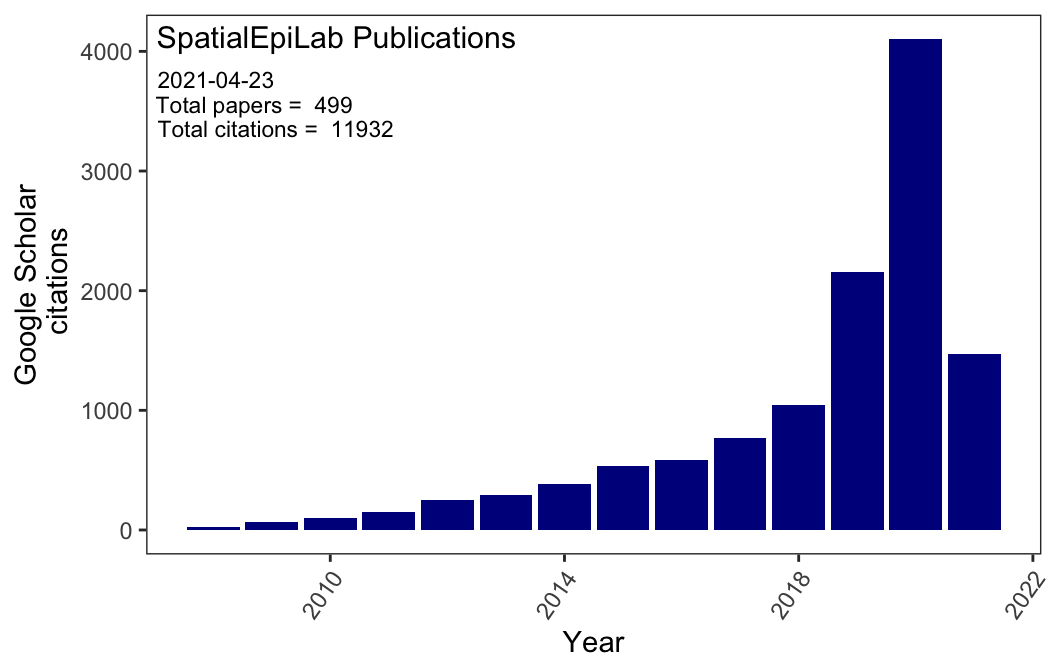
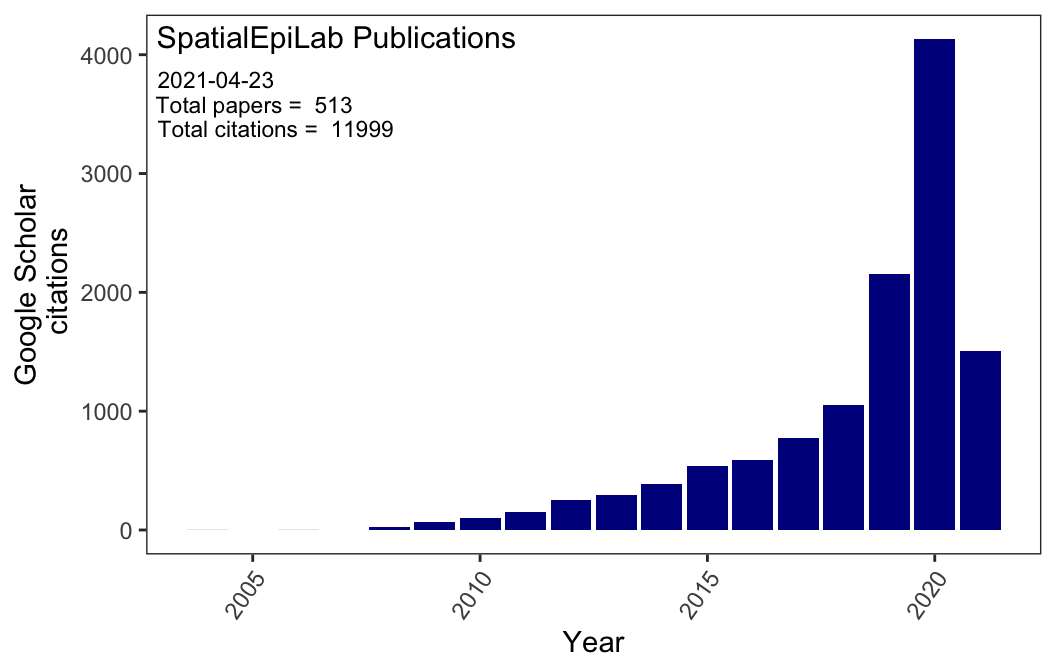
update index

diff --git a/index.html b/index.html
@@ -11,7 +11,7 @@
 
 
 
-<title>UQ Spatial Epidemiology Lab</title>
+<title>index.utf8</title>
 
 <script src="site_libs/jquery-1.11.3/jquery.min.js"></script>
 <meta name="viewport" content="width=device-width, initial-scale=1" />
@@ -331,7 +331,6 @@ $(document).ready(function () {
 
 
 
-<h1 class="title toc-ignore">UQ Spatial Epidemiology Lab</h1>
 
 </div>
 
@@ -340,7 +339,7 @@ $(document).ready(function () {
 <p><img src="images/spatial_website_logo.png" style="width:90%; margin-bottom: 1px" align="top" alt="The Spatial Epidemiology Lab (SpatialEpi) is a medical geography and disease ecology research group based at the University of Queensland"></p>
 <div class="col">
 <p><strong>Who is the SpatialEpiLab?</strong> <br> The <em>SpatialEpiLab</em> is a <a href="https://www.who.int/features/qa/one-health/en/" target="_blank">One Health</a> medical geography research group based at the <a href="https://veterinary-science.uq.edu.au/" target="_blank">School of Veterinary Science at the University of Queensland</a>, Australia, headed by <a href="people.html" target="_blank">Associate Professor Ricardo Soares Magalhães</a>. With a diversity of backgrounds and perspectives, we have broad expertise in health sciences, mathematical modelling, social sciences, ecology and epidemiology. <br> <br> <strong>What research is carried out at the SpatialEpiLab?</strong> <br> Research at the <em>SpatialEpiLab</em> lies at the interface between animal and human public health and aims to inform disease control policy by identifying major determinants of the geographical distributions of infections and their associated morbidities. We work with a range of international partners to blend our multidisciplinary expertise and deliver in-depth investigations for many important pathogens around the world.</p>
-Our work is routinely published in high impact peer reviewed journals in the international literature (our most recent publications are shown below, <a href="publications.html" target="_blank">see our full list of publications here</a>). Most of the risk-maps and analytical tools derived from our research are available to other researchers and disease control programme managers. <br> <br> <strong>What are our areas of expertise?</strong> <br> Please navigate the content on these pages to access more information about the studies that we are currently involved in and some of the outputs we are producing. If you are interested in our work and would like to discuss potential projects, please see <a href="opportunities.html" target="_blank">our research opportunities</a> and <a href="contact.html" target="_blank">our contact details</a>. We also readily welcome visitors to our lab, especially for our monthly lab chats, so let us know if you’re keen for a visit. <br> <br> <strong>New PhD opportunity: using time series analyses for ecological forecasting</strong> <br> Thanks to an ARC DECRA fellowship awarded to our ECR <a href="people.html#nicholas_clark" target="_blank">Dr Nicholas Clark</a>, we have a fully funded PhD scholarship (tuition and living expenses) available for a quantitatively minded candidate. Please visit <a href="opportunities.html" target="_blank">our research opportunities</a> to see details of the project and to find out how to enquire.
+Our work is routinely published in high impact peer reviewed journals in the international literature (our most recent publications are shown below, <a href="publications.html" target="_blank">see our full list of publications here</a>). Most of the risk-maps and analytical tools derived from our research are available to other researchers and disease control programme managers. <br> <br> <strong>What are our areas of expertise?</strong> <br> Please navigate the content on these pages to access more information about the studies that we are currently involved in and some of the outputs we are producing. If you are interested in our work and would like to discuss potential projects, please see <a href="opportunities.html" target="_blank">our research opportunities</a> and <a href="contact.html" target="_blank">our contact details</a>. We also readily welcome visitors to our lab, especially for our monthly lab chats, so let us know if you’re keen for a visit. <br> <br> <strong>Two new Fully Funded PhD opportunities</strong> <br> Thanks to an ARC DECRA fellowship awarded to our ECR <a href="people.html#nicholas_clark" target="_blank">Dr Nicholas Clark</a> and an NHMRC fellowship to <a href="https://researchers.uq.edu.au/researcher/22990">Dr. Silvia Ciocchetta</a>, we have two fully funded PhD scholarships (tuition and living expenses) available for candidates interested in zoonoses, public health and modelling. Please visit <a href="opportunities.html" target="_blank">our research opportunities</a> to see details of the projects and to find out how to enquire.
 </div>
 <br> <strong>Some of our most recent publications</strong>
 <div style="border: 1px solid #ddd; padding: 0px; overflow-y: scroll; height:400px; overflow-x: scroll; width:100%; ">
@@ -998,6 +997,28 @@ Int J of Infectious Disease
 </td>
 <td style="text-align:left;width: 20em; ">
 P Mshelbwala, S Weese, A Mamun, et al
+</td>
+</tr>
+<tr>
+<td style="text-align:left;width: 30em; ">
+a Brief-Review of the Risk Factors for Covid-19 Severity
+</td>
+<td style="text-align:left;width: 20em; font-style: italic;">
+Revista De Saude Publica
+</td>
+<td style="text-align:left;width: 20em; ">
+JE Rod, O Oviedo-Trespalacios, J Cortes-Ramirez
+</td>
+</tr>
+<tr>
+<td style="text-align:left;width: 30em; ">
+Risk of Zoonoses Hospitalisation in Queensland Local Government Areas
+</td>
+<td style="text-align:left;width: 20em; font-style: italic;">
+Queensland University of Technology
+</td>
+<td style="text-align:left;width: 20em; ">
+RSM Javier Cortes-Ramirez, Dwan Vilcins, Paul Jagals
 </td>
 </tr>
 </tbody>

diff --git a/publications.html b/publications.html
@@ -1076,6 +1076,28 @@ Int J of Infectious Disease
 P Mshelbwala, S Weese, A Mamun, et al
 </td>
 </tr>
+<tr>
+<td style="text-align:left;width: 30em; ">
+a Brief-Review of the Risk Factors for Covid-19 Severity
+</td>
+<td style="text-align:left;width: 20em; font-style: italic;">
+Revista De Saude Publica
+</td>
+<td style="text-align:left;width: 20em; ">
+JE Rod, O Oviedo-Trespalacios, J Cortes-Ramirez
+</td>
+</tr>
+<tr>
+<td style="text-align:left;width: 30em; ">
+Risk of Zoonoses Hospitalisation in Queensland Local Government Areas
+</td>
+<td style="text-align:left;width: 20em; font-style: italic;">
+Queensland University of Technology
+</td>
+<td style="text-align:left;width: 20em; ">
+RSM Javier Cortes-Ramirez, Dwan Vilcins, Paul Jagals
+</td>
+</tr>
 </tbody>
 </table>
 </div>
@@ -1744,6 +1766,39 @@ Sokoto J of Veterinary Sciences
 </td>
 <td style="text-align:left;width: 20em; ">
 SA Ubah, M Sule, IC Chibuogwu, et al
+</td>
+</tr>
+<tr>
+<td style="text-align:left;width: 30em; ">
+Collaboration Across Boundaries in the Amazon
+</td>
+<td style="text-align:left;width: 20em; font-style: italic;">
+Science (New York, Ny)
+</td>
+<td style="text-align:left;width: 20em; ">
+PR Prist, N Levin, JP Metzger, et al
+</td>
+</tr>
+<tr>
+<td style="text-align:left;width: 30em; ">
+using Human Epidemiological Analyses to Support the Assessment of the Impacts of Coal Mining on Health
+</td>
+<td style="text-align:left;width: 20em; font-style: italic;">
+Reviews on Environmental Health
+</td>
+<td style="text-align:left;width: 20em; ">
+J Cortes-Ramirez, PD Sly, J Ng, et al
+</td>
+</tr>
+<tr>
+<td style="text-align:left;width: 30em; ">
+Incorporating Epidemiological Studies into Integrated Environmental Health Impact Assessment of Coal Mining
+</td>
+<td style="text-align:left;width: 20em; font-style: italic;">
+University of Queensland
+</td>
+<td style="text-align:left;width: 20em; ">
+JC Ramirez
 </td>
 </tr>
 </tbody>
@@ -2437,6 +2492,28 @@ Sokoto J of Veterinary Sciences
 </td>
 <td style="text-align:left;width: 20em; ">
 KO Abah, MB Mahre, PP Mshelbwala
+</td>
+</tr>
+<tr>
+<td style="text-align:left;width: 30em; ">
+Mortality and Morbidity in Populations in the Vicinity of Coal Mining: a Systematic Review
+</td>
+<td style="text-align:left;width: 20em; font-style: italic;">
+Bmc Public Health
+</td>
+<td style="text-align:left;width: 20em; ">
+J Cortes-Ramirez, S Naish, PD Sly, et al
+</td>
+</tr>
+<tr>
+<td style="text-align:left;width: 30em; ">
+International Classification of Diseases Codes of Morbidity and Mortality in Populations in the Vicinity of Coal Mining
+</td>
+<td style="text-align:left;width: 20em; font-style: italic;">
+Isee Conference Abstracts
+</td>
+<td style="text-align:left;width: 20em; ">
+J Cortes-Ramirez, S Naish, P Jagals
 </td>
 </tr>
 </tbody>
@@ -5660,6 +5737,17 @@ RJS Magalhaes, B Wieland, J Otte, et al
 </tr>
 <tr>
 <td style="text-align:left;width: 30em; ">
+Risk Factors Associated with Silicosis in Mine Workers in Los Andes, Chile
+</td>
+<td style="text-align:left;width: 20em; font-style: italic;">
+The University of Chile
+</td>
+<td style="text-align:left;width: 20em; ">
+J Cortes Ramirez
+</td>
+</tr>
+<tr>
+<td style="text-align:left;width: 30em; ">
 Use of Social Network Analysis to Characterize the Pattern of Animal Movements in the Initial Phases of the 2001 Foot and Mouth Disease (Fmd) Epidemic in the Uk
 </td>
 <td style="text-align:left;width: 20em; font-style: italic;">
@@ -5759,6 +5847,17 @@ M Gupta, TK Biswas, S Saha, et al
 </tr>
 <tr>
 <td style="text-align:left;width: 30em; ">
+Accidentes Del Trabajo en La División Andina De Codelco, 1999-2003
+</td>
+<td style="text-align:left;width: 20em; font-style: italic;">
+Cienc. Trab
+</td>
+<td style="text-align:left;width: 20em; ">
+D Delgado, A Kirschbaum, P Miranda, et al
+</td>
+</tr>
+<tr>
+<td style="text-align:left;width: 30em; ">
 Investigation of Mrsa in Small Animal Practice
 </td>
 <td style="text-align:left;width: 20em; font-style: italic;">
@@ -5825,6 +5924,39 @@ P Banerjee, KN Sahoo, TK Biswas, et al
 </tr>
 <tr>
 <td style="text-align:left;width: 30em; ">
+Análisis y Evaluación De Las Encuestas Caps (Conocimientos, Actitudes y Prácticas en Salud), Norte De Santander 2000 (Actualización Morbimortalidad 2002). Comunidades Indigenas …
+</td>
+<td style="text-align:left;width: 20em; font-style: italic;">
+Reports of the Health Institute, North of Santander
+</td>
+<td style="text-align:left;width: 20em; ">
+J Cortes, H Anaya
+</td>
+</tr>
+<tr>
+<td style="text-align:left;width: 30em; ">
+Snakebite Management Guidelines, North of Santander, Colombia
+</td>
+<td style="text-align:left;width: 20em; font-style: italic;">
+Reports of the Health Institute, North of Santander
+</td>
+<td style="text-align:left;width: 20em; ">
+J Cortes-Ramirez, H Anaya
+</td>
+</tr>
+<tr>
+<td style="text-align:left;width: 30em; ">
+Seroprevalencia De Vih, Hepatitis B, Hepatitis C, Chagas y Sifilis en Donantes De Bancos De Sangre De Cúcuta (Colombia) 1998 - 1999
+</td>
+<td style="text-align:left;width: 20em; font-style: italic;">
+Respuestas
+</td>
+<td style="text-align:left;width: 20em; ">
+GE Zambrano Plata, J Cortez
+</td>
+</tr>
+<tr>
+<td style="text-align:left;width: 30em; ">
 Chemical and Pharmacological Evaluation of Different Ayurvedic Preparations of Iron
 </td>
 <td style="text-align:left;width: 20em; font-style: italic;">
@@ -5843,6 +5975,17 @@ J of Internal Medicine of India
 </td>
 <td style="text-align:left;width: 20em; ">
 TK Biswas
+</td>
+</tr>
+<tr>
+<td style="text-align:left;width: 30em; ">
+Manifestaciones Electrocardiográficas en La Cardiopatía Chagásica
+</td>
+<td style="text-align:left;width: 20em; font-style: italic;">
+Salud Uis
+</td>
+<td style="text-align:left;width: 20em; ">
+AMC Neira, BEV Angarita, LCO Vargas
 </td>
 </tr>
 <tr>

diff --git a/people.html b/people.html
@@ -2000,6 +2000,144 @@ J McKee, N Clark, F Shapter, et al
 <center>
 Dr Cortes-Ramirez is a medical doctor with clinical experience in diagnosis and treatment of tropical diseases including vector-borne diseases and zoonoses. He worked as a medical practitioner for 10 years in Colombia and Chile, as medical doctor with the International Committee of the Red Cross (2002) and as a consultant for <a href="https://www.who.int/" target="_blank">World Health Organization</a> for a national project on Environmental Health in the Solomon Islands (2015). As a researcher, he has experience studying the prevalence of ofidism (snake bite), Chagas disease in tropical countries as well as risk factors associated with silicosis in miners in Chile. In the last four years, he has developed spatial epidemiological studies on the association of coal mining with hospitalisations in Queensland. Dr Cortes-Ramirez is currently a lecturer in Environmental Health at UQ’s <a href="https://public-health.uq.edu.au/" target="_blank">School of Public Health</a> Read more about his work at his <a href="https://www.researchgate.net/profile/Javier_Cortes-Ramirez">ResearchGate</a> page.
 </center>
+<br>
+<center>
+<code>Dr Ramirez's recent publications</code>
+</center>
+<div style="border: 1px solid #ddd; padding: 0px; overflow-y: scroll; height:300px; overflow-x: scroll; width:100%; ">
+<table class="table table-striped table-hover table-condensed table-responsive" style="margin-left: auto; margin-right: auto;">
+<thead>
+<tr>
+<th style="text-align:right;position: sticky; top:0; background-color: #FFFFFF;">
+Year
+</th>
+<th style="text-align:left;position: sticky; top:0; background-color: #FFFFFF;">
+Title
+</th>
+<th style="text-align:left;position: sticky; top:0; background-color: #FFFFFF;">
+Journal
+</th>
+<th style="text-align:left;position: sticky; top:0; background-color: #FFFFFF;">
+Authors
+</th>
+</tr>
+</thead>
+<tbody>
+<tr>
+<td style="text-align:right;">
+2021
+</td>
+<td style="text-align:left;width: 30em; ">
+Environmental and Sociodemographic Risk Factors Associated with Environmentally Transmitted Zoonoses Hospitalisations in Queensland, Australia
+</td>
+<td style="text-align:left;width: 20em; font-style: italic;">
+One Health
+</td>
+<td style="text-align:left;width: 20em; ">
+J Cortes-Ramirez, D Vilcins, P Jagals, et al
+</td>
+</tr>
+<tr>
+<td style="text-align:right;">
+2020
+</td>
+<td style="text-align:left;width: 30em; ">
+a Brief-Review of the Risk Factors for Covid-19 Severity
+</td>
+<td style="text-align:left;width: 20em; font-style: italic;">
+Revista De Saude Publica
+</td>
+<td style="text-align:left;width: 20em; ">
+JE Rod, O Oviedo-Trespalacios, J Cortes-Ramirez
+</td>
+</tr>
+<tr>
+<td style="text-align:right;">
+2020
+</td>
+<td style="text-align:left;width: 30em; ">
+Risk of Zoonoses Hospitalisation in Queensland Local Government Areas
+</td>
+<td style="text-align:left;width: 20em; font-style: italic;">
+Queensland University of Technology
+</td>
+<td style="text-align:left;width: 20em; ">
+RSM Javier Cortes-Ramirez, Dwan Vilcins, Paul Jagals
+</td>
+</tr>
+<tr>
+<td style="text-align:right;">
+2019
+</td>
+<td style="text-align:left;width: 30em; ">
+Collaboration Across Boundaries in the Amazon
+</td>
+<td style="text-align:left;width: 20em; font-style: italic;">
+Science (New York, Ny)
+</td>
+<td style="text-align:left;width: 20em; ">
+PR Prist, N Levin, JP Metzger, et al
+</td>
+</tr>
+<tr>
+<td style="text-align:right;">
+2019
+</td>
+<td style="text-align:left;width: 30em; ">
+using Human Epidemiological Analyses to Support the Assessment of the Impacts of Coal Mining on Health
+</td>
+<td style="text-align:left;width: 20em; font-style: italic;">
+Reviews on Environmental Health
+</td>
+<td style="text-align:left;width: 20em; ">
+J Cortes-Ramirez, PD Sly, J Ng, et al
+</td>
+</tr>
+<tr>
+<td style="text-align:right;">
+2019
+</td>
+<td style="text-align:left;width: 30em; ">
+Incorporating Epidemiological Studies into Integrated Environmental Health Impact Assessment of Coal Mining
+</td>
+<td style="text-align:left;width: 20em; font-style: italic;">
+University of Queensland
+</td>
+<td style="text-align:left;width: 20em; ">
+JC Ramirez
+</td>
+</tr>
+<tr>
+<td style="text-align:right;">
+2018
+</td>
+<td style="text-align:left;width: 30em; ">
+Mortality and Morbidity in Populations in the Vicinity of Coal Mining: a Systematic Review
+</td>
+<td style="text-align:left;width: 20em; font-style: italic;">
+Bmc Public Health
+</td>
+<td style="text-align:left;width: 20em; ">
+J Cortes-Ramirez, S Naish, PD Sly, et al
+</td>
+</tr>
+<tr>
+<td style="text-align:right;">
+2018
+</td>
+<td style="text-align:left;width: 30em; ">
+International Classification of Diseases Codes of Morbidity and Mortality in Populations in the Vicinity of Coal Mining
+</td>
+<td style="text-align:left;width: 20em; font-style: italic;">
+Isee Conference Abstracts
+</td>
+<td style="text-align:left;width: 20em; ">
+J Cortes-Ramirez, S Naish, P Jagals
+</td>
+</tr>
+</tbody>
+</table>
+</div>
 <p><br></p>
 </div>
 <div id="kei-owada" class="section level3">
